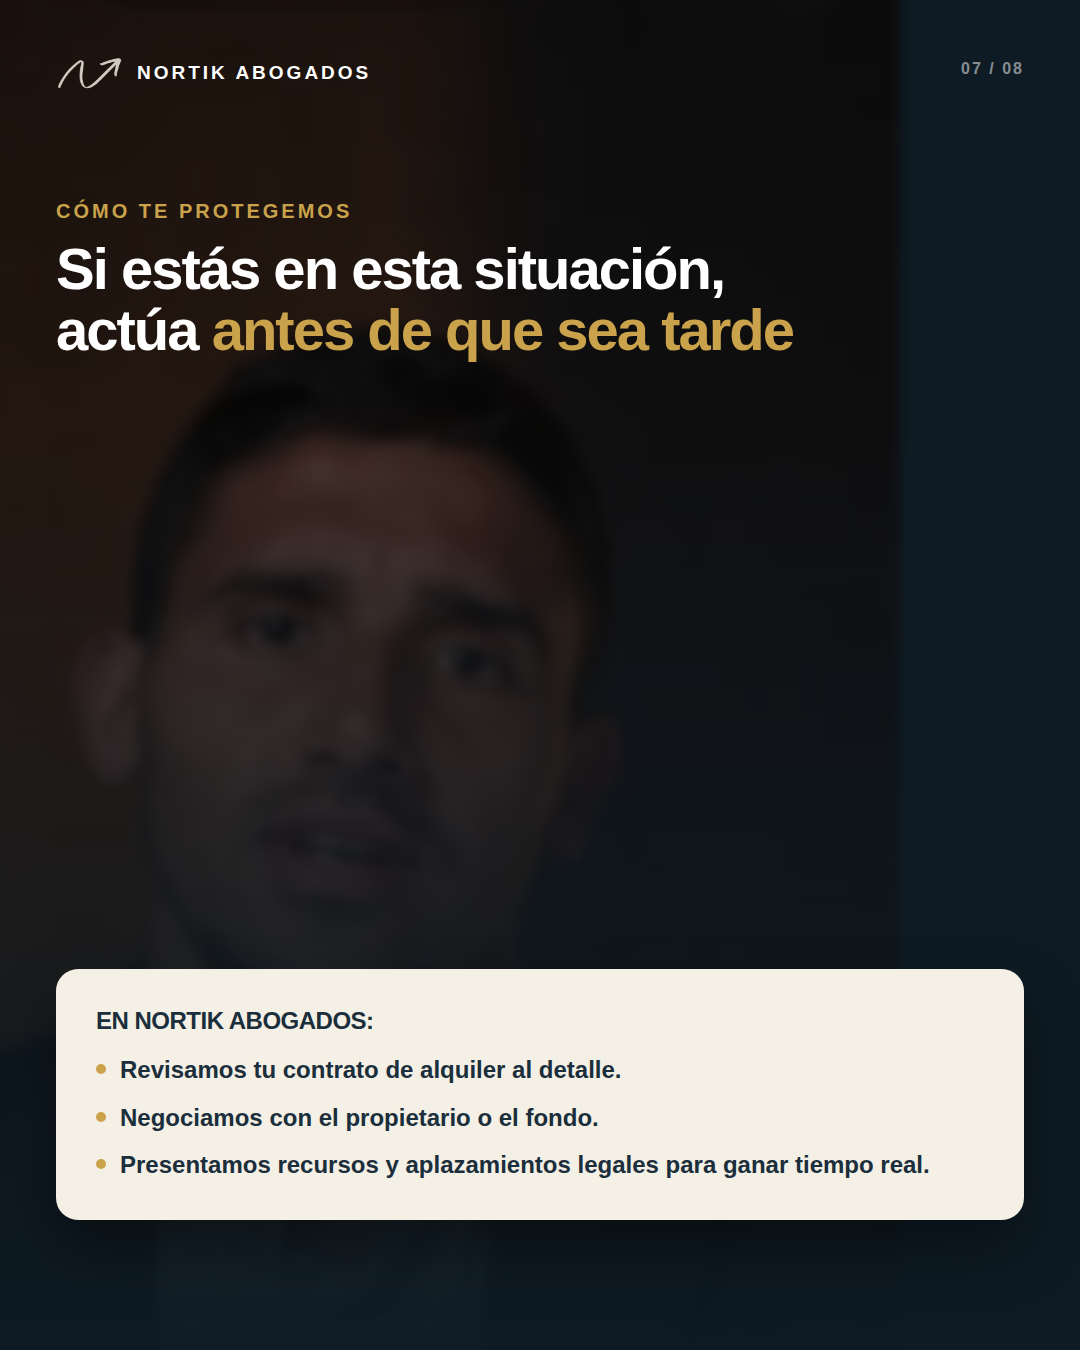
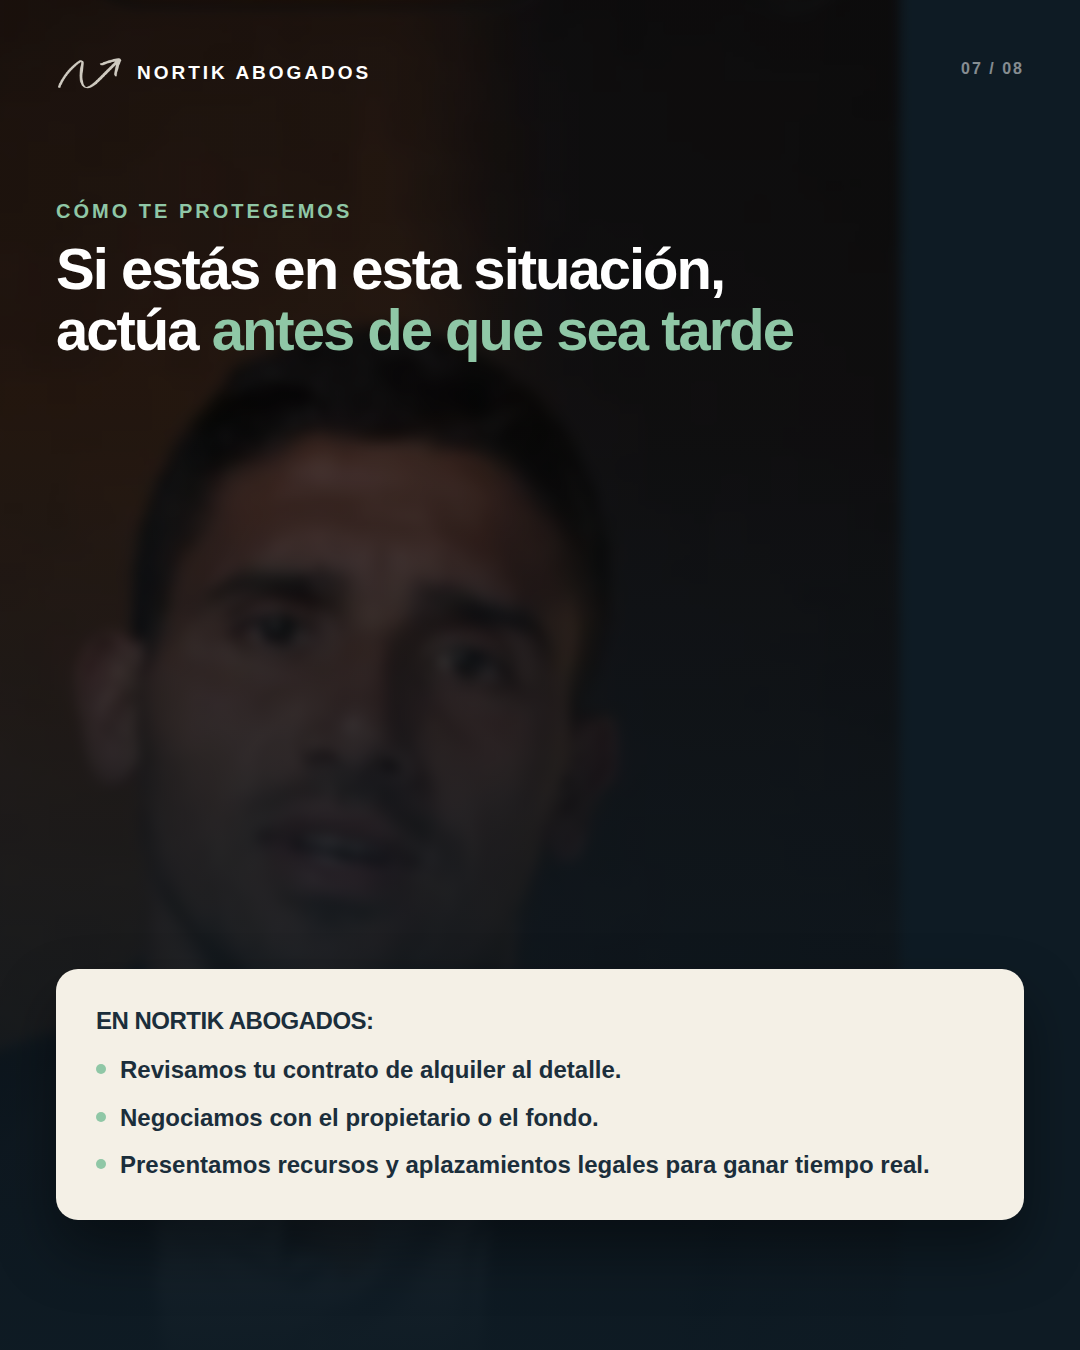
Aplicar Opción B (verde clarito suave) como color de acento del carrusel
Sustituye el dorado por #8FC7A6 en las 8 slides (kickers, highlights, CTAs,
ribbon, timeline, takeaway, botón final), según la elección del cliente
sobre la comparativa de tonos.

Changed region(s): [[0.1833, 0.2178, 0.7333, 0.28], [0.2444, 0.1556, 0.3056, 0.1867]]

diff --git a/carousel-maricarmen-nortik/render.js b/carousel-maricarmen-nortik/render.js
@@ -10,7 +10,7 @@ const INK = '#0E1B24';      // deep navy background
 const INK2 = '#14232E';     // secondary navy (texture bg)
 const NAVY = '#1B2E3B';     // exact logo ink, used for cards on light bg
 const CREAM = '#F4F0E6';    // paper / light card bg
-const GOLD = '#C9A24B';     // accent: kickers, highlights, CTAs, ribbons
+const GOLD = '#8FC7A6';     // accent: soft light green (opción B elegida)
 const OK = '#4CAF7D';       // semantic green (checklist only)
 const BAD = '#D9534F';      // semantic red (checklist only)
 
